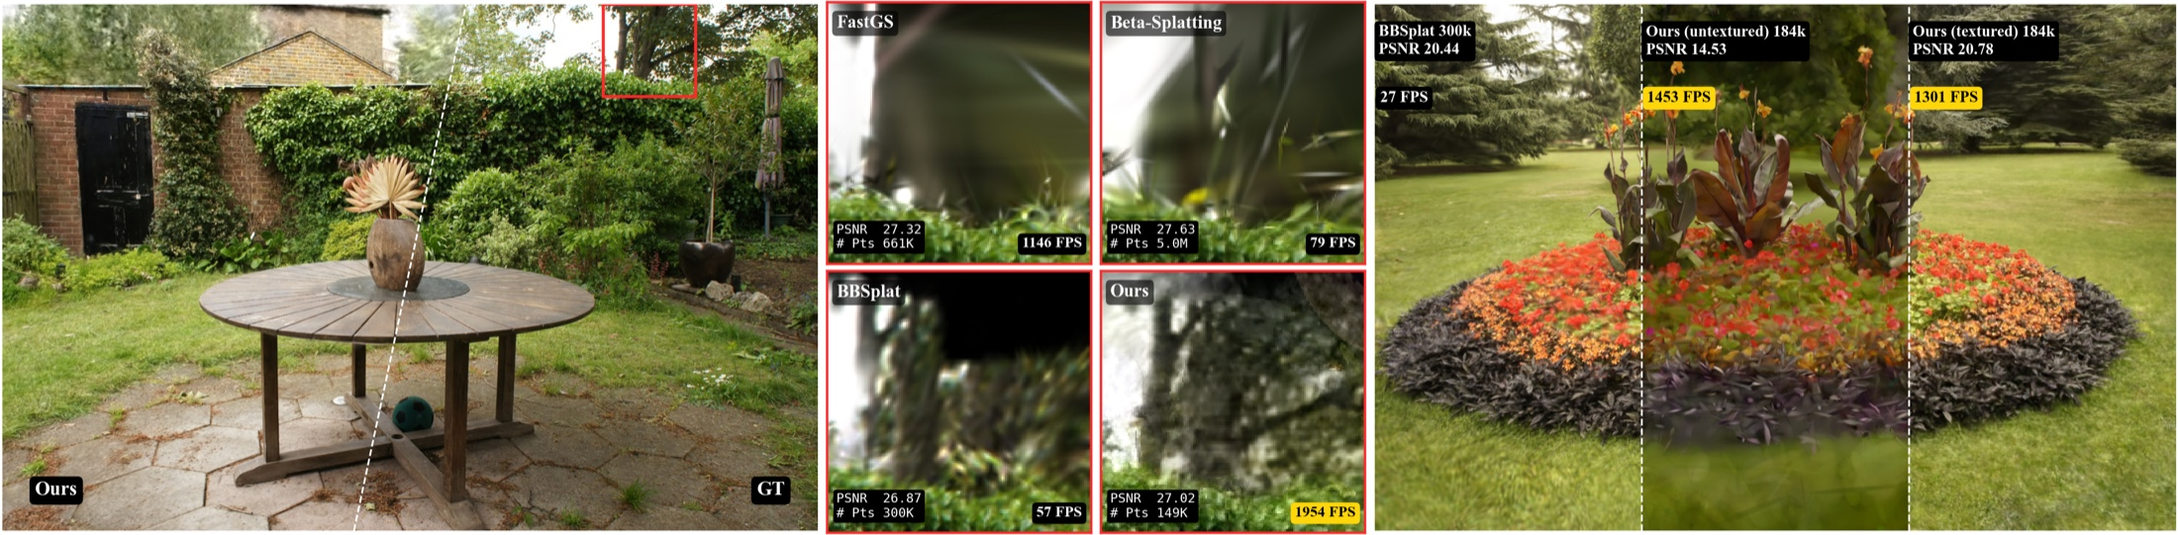
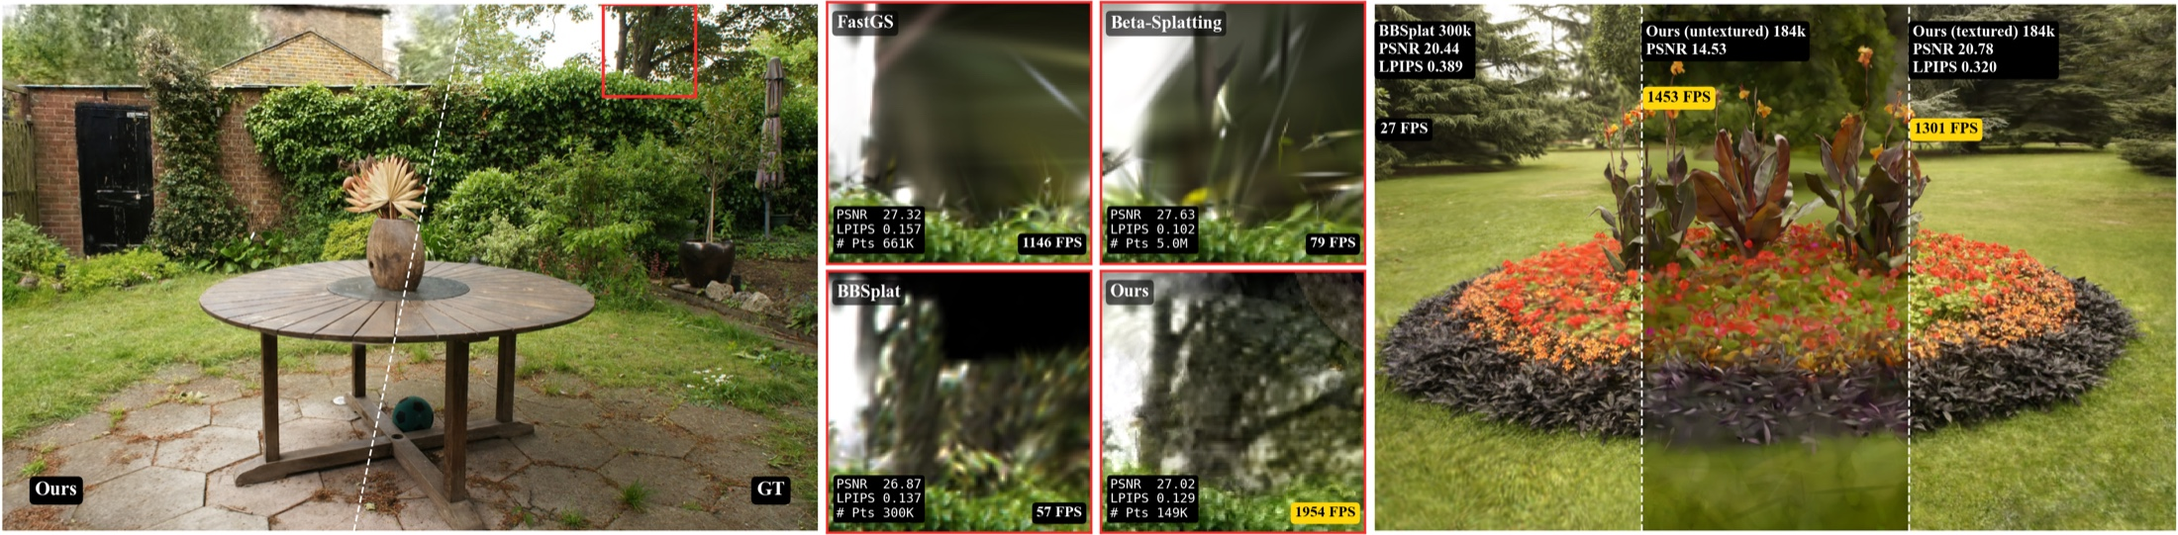
Results restructure: 3-way headline, ours-only per-scene, rank tints, LPIPS in teaser
- Headline table now Ours vs FastGS vs Nexels-400K (fastest untextured /
  highest-quality textured baselines) per benchmark, with our speed-up
  over each (1.27-1.78x FastGS, 16-36x Nexels)
- Per-scene tables show only our results with full metrics
  (PSNR/SSIM/LPIPS/prims/size/FPS)
- 13-method tables: red/orange/yellow tints for 1st/2nd/3rd per column
- Stat tiles: 1500+ FPS on every benchmark, up to 13x vs 3DGS
- Teaser regenerated with LPIPS alongside PSNR on all measured panels

diff --git a/index.html b/index.html
@@ -7,11 +7,11 @@
      EDIT THIS: page title shown in the browser tab / search results
      ============================================================ -->
 <title>Bake It Till You Make It: Ultrafast Spatial Texture-Surfel Splatting</title>
-<meta name="description" content="Ultrafast novel view synthesis by baking a view-independent texture residual: fastest method on all three benchmarks (7-9x faster than 3DGS), best LPIPS among methods above 1000 FPS on every benchmark, ~3x fewer primitives than FastGS.">
+<meta name="description" content="Ultrafast novel view synthesis by baking a view-independent texture residual: 1500+ FPS on every benchmark (up to 13x faster than 3DGS), best LPIPS among methods above 1000 FPS, over 10x fewer primitives than 3DGS.">
 
 <!-- Open Graph / social preview. EDIT the og:image URL and og:url. -->
 <meta property="og:title" content="Bake It Till You Make It">
-<meta property="og:description" content="Ultrafast texture-surfel splatting: fastest on all three benchmarks (7-9x faster than 3DGS), best LPIPS among methods above 1000 FPS, real-time on a phone.">
+<meta property="og:description" content="Ultrafast texture-surfel splatting: 1500+ FPS on every benchmark, up to 13x faster than 3DGS, real-time on a phone.">
 <meta property="og:type" content="website">
 <meta property="og:url" content="https://nilkel.github.io/bitymi/">
 <meta property="og:image" content="https://nilkel.github.io/bitymi/static/images/teaser.jpg">
@@ -131,6 +131,16 @@
   .fullcmp h4{font-size:1rem; margin:1.4rem 0 .3rem; color:var(--muted)}
   .restable tbody td.best{background:rgba(26,127,55,.10); border-radius:3px}
   @media (prefers-color-scheme:dark){ .restable tbody td.best{background:rgba(74,194,107,.16)} }
+  /* per-column rank tints in the full-comparison tables (paper convention):
+     red = best, orange = second, yellow = third */
+  .restable tbody td.r1{background:rgba(214,39,40,.24); border-radius:3px}
+  .restable tbody td.r2{background:rgba(255,127,14,.22); border-radius:3px}
+  .restable tbody td.r3{background:rgba(255,221,51,.38); border-radius:3px}
+  @media (prefers-color-scheme:dark){
+    .restable tbody td.r1{background:rgba(255,99,99,.30)}
+    .restable tbody td.r2{background:rgba(255,159,64,.28)}
+    .restable tbody td.r3{background:rgba(255,221,51,.20)}
+  }
   .sumtable{font-size:.95rem; max-width:640px; margin-left:auto; margin-right:auto}
   .sumtable td:first-child,.sumtable th:first-child{font-weight:600}
   .perscene{margin-top:.4rem}
@@ -200,8 +210,8 @@
 
   <!-- =================== STATS =================== EDIT numbers -->
   <div class="stats">
-    <div class="stat"><div class="num">13/13</div><div class="lbl">scenes with better LPIPS<br>than FastGS (3 benchmarks)</div></div>
-    <div class="stat"><div class="num">7&ndash;9&times;</div><div class="lbl">faster than 3DGS (up to 13&times; per scene)<br>at over 10&times; fewer primitives</div></div>
+    <div class="stat"><div class="num">1500+</div><div class="lbl">FPS on every benchmark<br>(RTX 5090, full test sets)</div></div>
+    <div class="stat"><div class="num">up to 13&times;</div><div class="lbl">faster than 3DGS<br>at over 10&times; fewer primitives</div></div>
     <div class="stat"><div class="num">No MLP</div><div class="lbl">pure texture lookups<br>&mdash; real-time on a phone</div></div>
   </div>
 
@@ -300,24 +310,28 @@
   <p>Rendering throughput and quality on three standard benchmarks, measured on a single
      RTX&nbsp;5090. All timings use per-frame <code>cuda.Event</code> pairs (50 warmup + 400 timed
      frames, sort and preprocess included), cycling through each scene's full held-out test set so
-     all methods are timed on identical images. We first highlight <strong>FastGS</strong>, the
-     strongest fast untextured baseline: it reaches its speed by optimising the per-primitive cost
-     of a conventional splat, whereas we change what a primitive stores &mdash; moving
-     high-frequency appearance into a baked texture, so far fewer and cheaper primitives are
-     needed. The full 13-method comparison follows below.</p>
+     all methods are timed on identical images. We first highlight the two strongest baselines:
+     <strong>FastGS</strong>, the fastest untextured method, which optimises the per-primitive
+     cost of a conventional splat, and <strong>Nexels (400K)</strong>, the highest-quality
+     textured baseline. We instead change what a primitive stores &mdash; moving high-frequency
+     appearance into a baked texture, so far fewer and cheaper primitives are needed. The full
+     13-method comparison follows below.</p>
 
   <div class="tablewrap">
   <table class="restable sumtable">
     <thead>
-      <tr><th>Benchmark</th><th>Method</th><th class="n">Primitives&nbsp;<span class="arw">&darr;</span></th><th class="n">FPS&nbsp;<span class="arw">&uarr;</span></th><th class="n">Speed-up&nbsp;<span class="arw">&uarr;</span></th><th class="n">PSNR&nbsp;<span class="arw">&uarr;</span></th><th class="n">SSIM&nbsp;<span class="arw">&uarr;</span></th><th class="n">LPIPS&nbsp;<span class="arw">&darr;</span></th></tr>
+      <tr><th>Benchmark</th><th>Method</th><th class="n">Primitives&nbsp;<span class="arw">&darr;</span></th><th class="n">FPS&nbsp;<span class="arw">&uarr;</span></th><th class="n">Our speed-up&nbsp;<span class="arw">&uarr;</span></th><th class="n">PSNR&nbsp;<span class="arw">&uarr;</span></th><th class="n">SSIM&nbsp;<span class="arw">&uarr;</span></th><th class="n">LPIPS&nbsp;<span class="arw">&darr;</span></th></tr>
     </thead>
     <tbody>
-      <tr class="dstop"><td rowspan="2">Mip-NeRF&nbsp;360<br><span class="dsn">9 scenes</span></td><td><strong>Ours</strong></td><td class="n best"><strong>123,051</strong></td><td class="n best"><strong>1538</strong></td><td class="n win"><strong>1.27&times;</strong></td><td class="n">27.23</td><td class="n">0.7892</td><td class="n best"><strong>0.2114</strong></td></tr>
-      <tr><td>FastGS</td><td class="n">394,189</td><td class="n">1209</td><td class="n">&mdash;</td><td class="n best"><strong>27.44</strong></td><td class="n best"><strong>0.7967</strong></td><td class="n">0.2589</td></tr>
-      <tr class="dstop"><td rowspan="2">Tanks &amp; Temples<br><span class="dsn">2 scenes</span></td><td><strong>Ours</strong></td><td class="n best"><strong>86,746</strong></td><td class="n best"><strong>2217</strong></td><td class="n win"><strong>1.78&times;</strong></td><td class="n best"><strong>24.10</strong></td><td class="n best"><strong>0.8507</strong></td><td class="n best"><strong>0.1447</strong></td></tr>
-      <tr><td>FastGS</td><td class="n">242,133</td><td class="n">1243</td><td class="n">&mdash;</td><td class="n">24.00</td><td class="n">0.8404</td><td class="n">0.2093</td></tr>
-      <tr class="dstop"><td rowspan="2">Deep Blending<br><span class="dsn">2 scenes</span></td><td><strong>Ours</strong></td><td class="n best"><strong>66,622</strong></td><td class="n best"><strong>2014</strong></td><td class="n win"><strong>1.39&times;</strong></td><td class="n">29.87</td><td class="n">0.8902</td><td class="n best"><strong>0.2176</strong></td></tr>
-      <tr><td>FastGS</td><td class="n">216,748</td><td class="n">1451</td><td class="n">&mdash;</td><td class="n best"><strong>30.02</strong></td><td class="n best"><strong>0.9045</strong></td><td class="n">0.2651</td></tr>
+      <tr class="dstop"><td rowspan="3">Mip-NeRF&nbsp;360<br><span class="dsn">9 scenes</span></td><td><strong>Ours</strong></td><td class="n best"><strong>123,051</strong></td><td class="n best"><strong>1538</strong></td><td class="n">&mdash;</td><td class="n">27.23</td><td class="n">0.7892</td><td class="n">0.2114</td></tr>
+      <tr><td>FastGS</td><td class="n">394,189</td><td class="n">1209</td><td class="n win">1.27&times;</td><td class="n best"><strong>27.44</strong></td><td class="n">0.7967</td><td class="n">0.2589</td></tr>
+      <tr><td>Nexels (400K)</td><td class="n">399,771</td><td class="n">78</td><td class="n win">19.7&times;</td><td class="n">27.21</td><td class="n best"><strong>0.8018</strong></td><td class="n best"><strong>0.2057</strong></td></tr>
+      <tr class="dstop"><td rowspan="3">Tanks &amp; Temples<br><span class="dsn">2 scenes</span></td><td><strong>Ours</strong></td><td class="n best"><strong>86,746</strong></td><td class="n best"><strong>2217</strong></td><td class="n">&mdash;</td><td class="n best"><strong>24.10</strong></td><td class="n best"><strong>0.8507</strong></td><td class="n best"><strong>0.1447</strong></td></tr>
+      <tr><td>FastGS</td><td class="n">242,133</td><td class="n">1243</td><td class="n win">1.78&times;</td><td class="n">24.00</td><td class="n">0.8404</td><td class="n">0.2093</td></tr>
+      <tr><td>Nexels (400K)</td><td class="n">399,767</td><td class="n">137</td><td class="n win">16.2&times;</td><td class="n">23.62</td><td class="n">0.8449</td><td class="n">0.1576</td></tr>
+      <tr class="dstop"><td rowspan="3">Deep Blending<br><span class="dsn">2 scenes</span></td><td><strong>Ours</strong></td><td class="n best"><strong>66,622</strong></td><td class="n best"><strong>2014</strong></td><td class="n">&mdash;</td><td class="n">29.87</td><td class="n">0.8902</td><td class="n">0.2176</td></tr>
+      <tr><td>FastGS</td><td class="n">216,748</td><td class="n">1451</td><td class="n win">1.39&times;</td><td class="n">30.02</td><td class="n">0.9045</td><td class="n">0.2651</td></tr>
+      <tr><td>Nexels (400K)</td><td class="n">399,188</td><td class="n">56</td><td class="n win">35.8&times;</td><td class="n best"><strong>30.41</strong></td><td class="n best"><strong>0.9138</strong></td><td class="n best"><strong>0.2046</strong></td></tr>
     </tbody>
   </table>
   </div>
@@ -327,7 +341,9 @@
      quality recomputed from the saved renders by one shared evaluation script &mdash; no numbers
      are copied from other papers. We are the <strong>fastest method on all three
      benchmarks</strong>; among methods above 1000&nbsp;FPS (Speedy-Splat, FastGS, ours) we have
-     the best LPIPS on every benchmark mean and on 12 of 13 scenes.</p>
+     the best LPIPS on every benchmark mean and on 12 of 13 scenes. Red, orange and yellow tints
+     mark the best, second and third value in each ranked column (Size is unranked; see the note
+     below).</p>
 
   <figure>
     <img src="static/images/pareto.png" alt="LPIPS versus FPS on Mip-NeRF 360, Tanks and Temples and Deep Blending: our method sits alone at the fast end of the Pareto frontier on all three benchmarks">
@@ -344,19 +360,19 @@
       <tr><th>Method</th><th class="n">PSNR <span class="arw">&uarr;</span></th><th class="n">SSIM <span class="arw">&uarr;</span></th><th class="n">LPIPS <span class="arw">&darr;</span></th><th class="n">Prims <span class="arw">&darr;</span></th><th class="n">Size (MB)</th><th class="n">FPS <span class="arw">&uarr;</span></th></tr>
     </thead>
     <tbody>
-      <tr><td>3DGS</td><td class="n">27.54</td><td class="n">0.8190</td><td class="n">0.2149</td><td class="n">2,732,349</td><td class="n">646</td><td class="n">211</td></tr>
+      <tr><td>3DGS</td><td class="n r2">27.54</td><td class="n r2">0.8190</td><td class="n">0.2149</td><td class="n">2,732,349</td><td class="n">646</td><td class="n">211</td></tr>
       <tr><td>2DGS</td><td class="n">26.83</td><td class="n">0.7989</td><td class="n">0.2520</td><td class="n">2,128,093</td><td class="n">495</td><td class="n">131</td></tr>
-      <tr><td>Beta-Splatting</td><td class="n best"><strong>28.07</strong></td><td class="n best"><strong>0.8311</strong></td><td class="n best"><strong>0.1904</strong></td><td class="n">3,111,111</td><td class="n">356</td><td class="n">110</td></tr>
+      <tr><td>Beta-Splatting</td><td class="n r1"><strong>28.07</strong></td><td class="n r1"><strong>0.8311</strong></td><td class="n r1"><strong>0.1904</strong></td><td class="n">3,111,111</td><td class="n">356</td><td class="n">110</td></tr>
       <tr><td>Beta-Splatting (200K)</td><td class="n">26.66</td><td class="n">0.7725</td><td class="n">0.2942</td><td class="n">205,331</td><td class="n">23</td><td class="n">469</td></tr>
       <tr><td>BBSplat</td><td class="n">26.80</td><td class="n">0.7874</td><td class="n">0.2355</td><td class="n">237,778</td><td class="n">176</td><td class="n">48</td></tr>
-      <tr><td>Nexels (40K)</td><td class="n">25.99</td><td class="n">0.7619</td><td class="n">0.2411</td><td class="n best"><strong>39,977</strong></td><td class="n">138</td><td class="n">119</td></tr>
-      <tr><td>Nexels (400K)</td><td class="n">27.21</td><td class="n">0.8018</td><td class="n">0.2057</td><td class="n">399,771</td><td class="n">230</td><td class="n">78</td></tr>
-      <tr><td>Speedy-Splat</td><td class="n">26.91</td><td class="n">0.7883</td><td class="n">0.2875</td><td class="n">315,961</td><td class="n">75</td><td class="n">1259</td></tr>
-      <tr><td>FastGS</td><td class="n">27.44</td><td class="n">0.7967</td><td class="n">0.2589</td><td class="n">394,189</td><td class="n">98</td><td class="n">1209</td></tr>
+      <tr><td>Nexels (40K)</td><td class="n">25.99</td><td class="n">0.7619</td><td class="n">0.2411</td><td class="n r1"><strong>39,977</strong></td><td class="n">138</td><td class="n">119</td></tr>
+      <tr><td>Nexels (400K)</td><td class="n">27.21</td><td class="n r3">0.8018</td><td class="n r2">0.2057</td><td class="n">399,771</td><td class="n">230</td><td class="n">78</td></tr>
+      <tr><td>Speedy-Splat</td><td class="n">26.91</td><td class="n">0.7883</td><td class="n">0.2875</td><td class="n">315,961</td><td class="n">75</td><td class="n r2">1259</td></tr>
+      <tr><td>FastGS</td><td class="n r3">27.44</td><td class="n">0.7967</td><td class="n">0.2589</td><td class="n">394,189</td><td class="n">98</td><td class="n r3">1209</td></tr>
       <tr><td>Content-Aware Texturing</td><td class="n">26.84</td><td class="n">0.7886</td><td class="n">0.2340</td><td class="n">155,756</td><td class="n">436</td><td class="n">137</td></tr>
-      <tr><td>Textured Gaussians</td><td class="n">25.86</td><td class="n">0.7336</td><td class="n">0.2857</td><td class="n">100,000</td><td class="n">3,837</td><td class="n">28</td></tr>
+      <tr><td>Textured Gaussians</td><td class="n">25.86</td><td class="n">0.7336</td><td class="n">0.2857</td><td class="n r2">100,000</td><td class="n">3,837</td><td class="n">28</td></tr>
       <tr><td>NeST</td><td class="n">26.39</td><td class="n">0.7734</td><td class="n">0.2257</td><td class="n">961,163</td><td class="n">224</td><td class="n">24</td></tr>
-      <tr class="ours"><td><strong>Ours</strong></td><td class="n">27.23</td><td class="n">0.7892</td><td class="n">0.2114</td><td class="n">123,051</td><td class="n">445</td><td class="n best"><strong>1538</strong></td></tr>
+      <tr class="ours"><td><strong>Ours</strong></td><td class="n">27.23</td><td class="n">0.7892</td><td class="n r3">0.2114</td><td class="n r3">123,051</td><td class="n">445</td><td class="n r1"><strong>1538</strong></td></tr>
     </tbody>
   </table>
   </div>
@@ -368,19 +384,19 @@
       <tr><th>Method</th><th class="n">PSNR <span class="arw">&uarr;</span></th><th class="n">SSIM <span class="arw">&uarr;</span></th><th class="n">LPIPS <span class="arw">&darr;</span></th><th class="n">Prims <span class="arw">&darr;</span></th><th class="n">Size (MB)</th><th class="n">FPS <span class="arw">&uarr;</span></th></tr>
     </thead>
     <tbody>
-      <tr><td>3DGS</td><td class="n">23.74</td><td class="n">0.8574</td><td class="n">0.1692</td><td class="n">1,574,592</td><td class="n">372</td><td class="n">259</td></tr>
+      <tr><td>3DGS</td><td class="n">23.74</td><td class="n r2">0.8574</td><td class="n">0.1692</td><td class="n">1,574,592</td><td class="n">372</td><td class="n">259</td></tr>
       <tr><td>2DGS</td><td class="n">23.15</td><td class="n">0.8367</td><td class="n">0.2118</td><td class="n">851,362</td><td class="n">198</td><td class="n">230</td></tr>
-      <tr><td>Beta-Splatting</td><td class="n best"><strong>24.71</strong></td><td class="n best"><strong>0.8735</strong></td><td class="n best"><strong>0.1434</strong></td><td class="n">1,750,000</td><td class="n">200</td><td class="n">190</td></tr>
+      <tr><td>Beta-Splatting</td><td class="n r1"><strong>24.71</strong></td><td class="n r1"><strong>0.8735</strong></td><td class="n r1"><strong>0.1434</strong></td><td class="n">1,750,000</td><td class="n">200</td><td class="n">190</td></tr>
       <tr><td>Beta-Splatting (200K)</td><td class="n">23.38</td><td class="n">0.8348</td><td class="n">0.2144</td><td class="n">200,000</td><td class="n">23</td><td class="n">524</td></tr>
-      <tr><td>BBSplat</td><td class="n">23.70</td><td class="n">0.8570</td><td class="n">0.1501</td><td class="n">300,000</td><td class="n">226</td><td class="n">80</td></tr>
-      <tr><td>Nexels (40K)</td><td class="n">22.25</td><td class="n">0.7942</td><td class="n">0.2113</td><td class="n best"><strong>39,979</strong></td><td class="n">138</td><td class="n">204</td></tr>
+      <tr><td>BBSplat</td><td class="n">23.70</td><td class="n r3">0.8570</td><td class="n r3">0.1501</td><td class="n">300,000</td><td class="n">226</td><td class="n">80</td></tr>
+      <tr><td>Nexels (40K)</td><td class="n">22.25</td><td class="n">0.7942</td><td class="n">0.2113</td><td class="n r1"><strong>39,979</strong></td><td class="n">138</td><td class="n">204</td></tr>
       <tr><td>Nexels (400K)</td><td class="n">23.62</td><td class="n">0.8449</td><td class="n">0.1576</td><td class="n">399,767</td><td class="n">230</td><td class="n">137</td></tr>
-      <tr><td>Speedy-Splat</td><td class="n">23.44</td><td class="n">0.8252</td><td class="n">0.2399</td><td class="n">181,817</td><td class="n">43</td><td class="n">1459</td></tr>
-      <tr><td>FastGS</td><td class="n">24.00</td><td class="n">0.8404</td><td class="n">0.2093</td><td class="n">242,133</td><td class="n">60</td><td class="n">1243</td></tr>
+      <tr><td>Speedy-Splat</td><td class="n">23.44</td><td class="n">0.8252</td><td class="n">0.2399</td><td class="n">181,817</td><td class="n">43</td><td class="n r2">1459</td></tr>
+      <tr><td>FastGS</td><td class="n r3">24.00</td><td class="n">0.8404</td><td class="n">0.2093</td><td class="n">242,133</td><td class="n">60</td><td class="n r3">1243</td></tr>
       <tr><td>Content-Aware Texturing</td><td class="n">23.37</td><td class="n">0.8387</td><td class="n">0.1973</td><td class="n">133,880</td><td class="n">127</td><td class="n">270</td></tr>
-      <tr><td>Textured Gaussians</td><td class="n">22.70</td><td class="n">0.8058</td><td class="n">0.2161</td><td class="n">100,000</td><td class="n">3,837</td><td class="n">30</td></tr>
+      <tr><td>Textured Gaussians</td><td class="n">22.70</td><td class="n">0.8058</td><td class="n">0.2161</td><td class="n r3">100,000</td><td class="n">3,837</td><td class="n">30</td></tr>
       <tr><td>NeST</td><td class="n">22.54</td><td class="n">0.8178</td><td class="n">0.1866</td><td class="n">378,448</td><td class="n">90</td><td class="n">48</td></tr>
-      <tr class="ours"><td><strong>Ours</strong></td><td class="n">24.10</td><td class="n">0.8507</td><td class="n">0.1447</td><td class="n">86,746</td><td class="n">325</td><td class="n best"><strong>2217</strong></td></tr>
+      <tr class="ours"><td><strong>Ours</strong></td><td class="n r2">24.10</td><td class="n">0.8507</td><td class="n r2">0.1447</td><td class="n r2">86,746</td><td class="n">325</td><td class="n r1"><strong>2217</strong></td></tr>
     </tbody>
   </table>
   </div>
@@ -392,19 +408,19 @@
       <tr><th>Method</th><th class="n">PSNR <span class="arw">&uarr;</span></th><th class="n">SSIM <span class="arw">&uarr;</span></th><th class="n">LPIPS <span class="arw">&darr;</span></th><th class="n">Prims <span class="arw">&darr;</span></th><th class="n">Size (MB)</th><th class="n">FPS <span class="arw">&uarr;</span></th></tr>
     </thead>
     <tbody>
-      <tr><td>3DGS</td><td class="n">29.71</td><td class="n">0.9106</td><td class="n">0.2375</td><td class="n">2,471,124</td><td class="n">584</td><td class="n">216</td></tr>
+      <tr><td>3DGS</td><td class="n">29.71</td><td class="n r3">0.9106</td><td class="n">0.2375</td><td class="n">2,471,124</td><td class="n">584</td><td class="n">216</td></tr>
       <tr><td>2DGS</td><td class="n">29.47</td><td class="n">0.9071</td><td class="n">0.2566</td><td class="n">1,508,720</td><td class="n">351</td><td class="n">157</td></tr>
       <tr><td>Beta-Splatting</td><td class="n">29.44</td><td class="n">0.9090</td><td class="n">0.2372</td><td class="n">3,000,000</td><td class="n">343</td><td class="n">136</td></tr>
       <tr><td>Beta-Splatting (200K)</td><td class="n">29.64</td><td class="n">0.9024</td><td class="n">0.2756</td><td class="n">200,000</td><td class="n">23</td><td class="n">520</td></tr>
       <tr><td>BBSplat</td><td class="n">29.34</td><td class="n">0.9050</td><td class="n">0.2570</td><td class="n">160,000</td><td class="n">111</td><td class="n">49</td></tr>
-      <tr><td>Nexels (40K)</td><td class="n">29.34</td><td class="n">0.8981</td><td class="n">0.2306</td><td class="n best"><strong>39,958</strong></td><td class="n">138</td><td class="n">106</td></tr>
-      <tr><td>Nexels (400K)</td><td class="n best"><strong>30.41</strong></td><td class="n">0.9138</td><td class="n best"><strong>0.2046</strong></td><td class="n">399,188</td><td class="n">230</td><td class="n">56</td></tr>
-      <tr><td>Speedy-Splat</td><td class="n">29.62</td><td class="n">0.9074</td><td class="n">0.2678</td><td class="n">250,990</td><td class="n">59</td><td class="n">1501</td></tr>
-      <tr><td>FastGS</td><td class="n">30.02</td><td class="n">0.9045</td><td class="n">0.2651</td><td class="n">216,748</td><td class="n">54</td><td class="n">1451</td></tr>
-      <tr><td>Content-Aware Texturing</td><td class="n">29.99</td><td class="n best"><strong>0.9141</strong></td><td class="n">0.2410</td><td class="n">185,094</td><td class="n">252</td><td class="n">147</td></tr>
-      <tr><td>Textured Gaussians</td><td class="n">29.04</td><td class="n">0.8913</td><td class="n">0.2652</td><td class="n">100,000</td><td class="n">3,837</td><td class="n">30</td></tr>
-      <tr><td>NeST</td><td class="n">28.86</td><td class="n">0.9021</td><td class="n">0.2273</td><td class="n">478,000</td><td class="n">113</td><td class="n">38</td></tr>
-      <tr class="ours"><td><strong>Ours</strong></td><td class="n">29.87</td><td class="n">0.8902</td><td class="n">0.2176</td><td class="n">66,622</td><td class="n">259</td><td class="n best"><strong>2014</strong></td></tr>
+      <tr><td>Nexels (40K)</td><td class="n">29.34</td><td class="n">0.8981</td><td class="n">0.2306</td><td class="n r1"><strong>39,958</strong></td><td class="n">138</td><td class="n">106</td></tr>
+      <tr><td>Nexels (400K)</td><td class="n r1"><strong>30.41</strong></td><td class="n r2">0.9138</td><td class="n r1"><strong>0.2046</strong></td><td class="n">399,188</td><td class="n">230</td><td class="n">56</td></tr>
+      <tr><td>Speedy-Splat</td><td class="n">29.62</td><td class="n">0.9074</td><td class="n">0.2678</td><td class="n">250,990</td><td class="n">59</td><td class="n r2">1501</td></tr>
+      <tr><td>FastGS</td><td class="n r2">30.02</td><td class="n">0.9045</td><td class="n">0.2651</td><td class="n">216,748</td><td class="n">54</td><td class="n r3">1451</td></tr>
+      <tr><td>Content-Aware Texturing</td><td class="n r3">29.99</td><td class="n r1"><strong>0.9141</strong></td><td class="n">0.2410</td><td class="n">185,094</td><td class="n">252</td><td class="n">147</td></tr>
+      <tr><td>Textured Gaussians</td><td class="n">29.04</td><td class="n">0.8913</td><td class="n">0.2652</td><td class="n r3">100,000</td><td class="n">3,837</td><td class="n">30</td></tr>
+      <tr><td>NeST</td><td class="n">28.86</td><td class="n">0.9021</td><td class="n r3">0.2273</td><td class="n">478,000</td><td class="n">113</td><td class="n">38</td></tr>
+      <tr class="ours"><td><strong>Ours</strong></td><td class="n">29.87</td><td class="n">0.8902</td><td class="n r2">0.2176</td><td class="n r2">66,622</td><td class="n">259</td><td class="n r1"><strong>2014</strong></td></tr>
     </tbody>
   </table>
   </div>
@@ -419,28 +435,26 @@
   </div>
 
   <p class="tcenter"><button class="toggle" type="button" data-target="ps-all"
-     aria-expanded="false">Show per-scene results</button></p>
+     aria-expanded="false">Show our per-scene results</button></p>
   <div id="ps-all" hidden>
   <h4>Mip-NeRF&nbsp;360</h4>
   <div class="tablewrap perscene">
   <table class="restable">
     <thead>
       <tr><th>Scene</th><th class="n">Resolution</th>
-          <th class="n">Prims <span class="arw">&darr;</span> (ours)</th><th class="n">Prims <span class="arw">&darr;</span> (FastGS)</th>
-          <th class="n">FPS <span class="arw">&uarr;</span> (ours)</th><th class="n">FPS <span class="arw">&uarr;</span> (FastGS)</th><th class="n">Speed-up <span class="arw">&uarr;</span></th>
-          <th class="n">PSNR <span class="arw">&uarr;</span> (ours)</th><th class="n">PSNR <span class="arw">&uarr;</span> (FastGS)</th>
-          <th class="n">LPIPS <span class="arw">&darr;</span> (ours)</th><th class="n">LPIPS <span class="arw">&darr;</span> (FastGS)</th></tr>
+          <th class="n">PSNR <span class="arw">&uarr;</span></th><th class="n">SSIM <span class="arw">&uarr;</span></th><th class="n">LPIPS <span class="arw">&darr;</span></th>
+          <th class="n">Prims</th><th class="n">Size (MB)</th><th class="n">FPS <span class="arw">&uarr;</span></th></tr>
     </thead>
     <tbody>
-      <tr><td>bicycle</td><td class="n">1237&times;822</td><td class="n">160,097</td><td class="n">539,624</td><td class="n best"><strong>1520</strong></td><td class="n">1212</td><td class="n win">1.25&times;</td><td class="n">24.41</td><td class="n best"><strong>24.61</strong></td><td class="n best"><strong>0.2383</strong></td><td class="n">0.2870</td></tr>
-      <tr><td>bonsai</td><td class="n">1559&times;1039</td><td class="n">92,281</td><td class="n">275,719</td><td class="n best"><strong>1330</strong></td><td class="n">1229</td><td class="n win">1.08&times;</td><td class="n best"><strong>32.53</strong></td><td class="n">32.05</td><td class="n best"><strong>0.1669</strong></td><td class="n">0.2138</td></tr>
-      <tr><td>counter</td><td class="n">1558&times;1038</td><td class="n">68,394</td><td class="n">208,171</td><td class="n best"><strong>1594</strong></td><td class="n">1199</td><td class="n win">1.33&times;</td><td class="n best"><strong>29.29</strong></td><td class="n">29.06</td><td class="n best"><strong>0.1819</strong></td><td class="n">0.2199</td></tr>
-      <tr><td>flowers</td><td class="n">1256&times;828</td><td class="n">184,511</td><td class="n">489,951</td><td class="n best"><strong>1301</strong></td><td class="n">1166</td><td class="n win">1.12&times;</td><td class="n">20.78</td><td class="n best"><strong>21.29</strong></td><td class="n best"><strong>0.3202</strong></td><td class="n">0.3880</td></tr>
-      <tr><td>garden</td><td class="n">1297&times;840</td><td class="n">148,658</td><td class="n">660,711</td><td class="n best"><strong>1954</strong></td><td class="n">1146</td><td class="n win">1.71&times;</td><td class="n">27.02</td><td class="n best"><strong>27.32</strong></td><td class="n best"><strong>0.1288</strong></td><td class="n">0.1574</td></tr>
-      <tr><td>kitchen</td><td class="n">1558&times;1039</td><td class="n">119,462</td><td class="n">379,671</td><td class="n best"><strong>1384</strong></td><td class="n">1055</td><td class="n win">1.31&times;</td><td class="n">31.39</td><td class="n best"><strong>31.64</strong></td><td class="n best"><strong>0.1224</strong></td><td class="n">0.1375</td></tr>
-      <tr><td>room</td><td class="n">1557&times;1038</td><td class="n">62,947</td><td class="n">207,167</td><td class="n best"><strong>2007</strong></td><td class="n">1341</td><td class="n win">1.50&times;</td><td class="n">31.48</td><td class="n best"><strong>31.70</strong></td><td class="n best"><strong>0.1866</strong></td><td class="n">0.2405</td></tr>
-      <tr><td>stump</td><td class="n">1245&times;825</td><td class="n">96,365</td><td class="n">392,348</td><td class="n best"><strong>1433</strong></td><td class="n">1263</td><td class="n win">1.14&times;</td><td class="n">25.66</td><td class="n best"><strong>26.47</strong></td><td class="n best"><strong>0.2632</strong></td><td class="n">0.2721</td></tr>
-      <tr><td>treehill</td><td class="n">1267&times;832</td><td class="n">174,744</td><td class="n">394,335</td><td class="n best"><strong>1320</strong></td><td class="n">1267</td><td class="n win">1.04&times;</td><td class="n">22.55</td><td class="n best"><strong>22.83</strong></td><td class="n best"><strong>0.2939</strong></td><td class="n">0.4141</td></tr>
+      <tr><td>bicycle</td><td class="n">1237&times;822</td><td class="n">24.41</td><td class="n">0.7132</td><td class="n">0.2383</td><td class="n">160,097</td><td class="n">620</td><td class="n">1520</td></tr>
+      <tr><td>bonsai</td><td class="n">1559&times;1039</td><td class="n">32.53</td><td class="n">0.9364</td><td class="n">0.1669</td><td class="n">92,281</td><td class="n">286</td><td class="n">1330</td></tr>
+      <tr><td>counter</td><td class="n">1558&times;1038</td><td class="n">29.29</td><td class="n">0.8994</td><td class="n">0.1819</td><td class="n">68,394</td><td class="n">208</td><td class="n">1594</td></tr>
+      <tr><td>flowers</td><td class="n">1256&times;828</td><td class="n">20.78</td><td class="n">0.5581</td><td class="n">0.3202</td><td class="n">184,511</td><td class="n">728</td><td class="n">1301</td></tr>
+      <tr><td>garden</td><td class="n">1297&times;840</td><td class="n">27.02</td><td class="n">0.8373</td><td class="n">0.1288</td><td class="n">148,658</td><td class="n">576</td><td class="n">1954</td></tr>
+      <tr><td>kitchen</td><td class="n">1558&times;1039</td><td class="n">31.39</td><td class="n">0.9181</td><td class="n">0.1224</td><td class="n">119,462</td><td class="n">253</td><td class="n">1384</td></tr>
+      <tr><td>room</td><td class="n">1557&times;1038</td><td class="n">31.48</td><td class="n">0.9164</td><td class="n">0.1866</td><td class="n">62,947</td><td class="n">228</td><td class="n">2007</td></tr>
+      <tr><td>stump</td><td class="n">1245&times;825</td><td class="n">25.66</td><td class="n">0.7225</td><td class="n">0.2632</td><td class="n">96,365</td><td class="n">378</td><td class="n">1433</td></tr>
+      <tr><td>treehill</td><td class="n">1267&times;832</td><td class="n">22.55</td><td class="n">0.6015</td><td class="n">0.2939</td><td class="n">174,744</td><td class="n">727</td><td class="n">1320</td></tr>
     </tbody>
   </table>
   </div>
@@ -449,14 +463,12 @@
   <table class="restable">
     <thead>
       <tr><th>Scene</th><th class="n">Resolution</th>
-          <th class="n">Prims <span class="arw">&darr;</span> (ours)</th><th class="n">Prims <span class="arw">&darr;</span> (FastGS)</th>
-          <th class="n">FPS <span class="arw">&uarr;</span> (ours)</th><th class="n">FPS <span class="arw">&uarr;</span> (FastGS)</th><th class="n">Speed-up <span class="arw">&uarr;</span></th>
-          <th class="n">PSNR <span class="arw">&uarr;</span> (ours)</th><th class="n">PSNR <span class="arw">&uarr;</span> (FastGS)</th>
-          <th class="n">LPIPS <span class="arw">&darr;</span> (ours)</th><th class="n">LPIPS <span class="arw">&darr;</span> (FastGS)</th></tr>
+          <th class="n">PSNR <span class="arw">&uarr;</span></th><th class="n">SSIM <span class="arw">&uarr;</span></th><th class="n">LPIPS <span class="arw">&darr;</span></th>
+          <th class="n">Prims</th><th class="n">Size (MB)</th><th class="n">FPS <span class="arw">&uarr;</span></th></tr>
     </thead>
     <tbody>
-      <tr><td>truck</td><td class="n">979&times;546</td><td class="n">85,413</td><td class="n">252,868</td><td class="n best"><strong>2399</strong></td><td class="n">1348</td><td class="n win">1.78&times;</td><td class="n">25.61</td><td class="n best"><strong>25.70</strong></td><td class="n best"><strong>0.1169</strong></td><td class="n">0.1766</td></tr>
-      <tr><td>train</td><td class="n">980&times;545</td><td class="n">88,080</td><td class="n">231,398</td><td class="n best"><strong>2035</strong></td><td class="n">1139</td><td class="n win">1.79&times;</td><td class="n best"><strong>22.59</strong></td><td class="n">22.31</td><td class="n best"><strong>0.1724</strong></td><td class="n">0.2419</td></tr>
+      <tr><td>truck</td><td class="n">979&times;546</td><td class="n">25.61</td><td class="n">0.8781</td><td class="n">0.1169</td><td class="n">85,413</td><td class="n">326</td><td class="n">2399</td></tr>
+      <tr><td>train</td><td class="n">980&times;545</td><td class="n">22.59</td><td class="n">0.8233</td><td class="n">0.1724</td><td class="n">88,080</td><td class="n">324</td><td class="n">2035</td></tr>
     </tbody>
   </table>
   </div>
@@ -465,14 +477,12 @@
   <table class="restable">
     <thead>
       <tr><th>Scene</th><th class="n">Resolution</th>
-          <th class="n">Prims <span class="arw">&darr;</span> (ours)</th><th class="n">Prims <span class="arw">&darr;</span> (FastGS)</th>
-          <th class="n">FPS <span class="arw">&uarr;</span> (ours)</th><th class="n">FPS <span class="arw">&uarr;</span> (FastGS)</th><th class="n">Speed-up <span class="arw">&uarr;</span></th>
-          <th class="n">PSNR <span class="arw">&uarr;</span> (ours)</th><th class="n">PSNR <span class="arw">&uarr;</span> (FastGS)</th>
-          <th class="n">LPIPS <span class="arw">&darr;</span> (ours)</th><th class="n">LPIPS <span class="arw">&darr;</span> (FastGS)</th></tr>
+          <th class="n">PSNR <span class="arw">&uarr;</span></th><th class="n">SSIM <span class="arw">&uarr;</span></th><th class="n">LPIPS <span class="arw">&darr;</span></th>
+          <th class="n">Prims</th><th class="n">Size (MB)</th><th class="n">FPS <span class="arw">&uarr;</span></th></tr>
     </thead>
     <tbody>
-      <tr><td>playroom</td><td class="n">1264&times;832</td><td class="n">67,156</td><td class="n">181,430</td><td class="n best"><strong>1853</strong></td><td class="n">1498</td><td class="n win">1.24&times;</td><td class="n">30.24</td><td class="n best"><strong>30.44</strong></td><td class="n best"><strong>0.2051</strong></td><td class="n">0.2605</td></tr>
-      <tr><td>drjohnson</td><td class="n">1332&times;876</td><td class="n">66,087</td><td class="n">252,067</td><td class="n best"><strong>2175</strong></td><td class="n">1403</td><td class="n win">1.55&times;</td><td class="n">29.50</td><td class="n best"><strong>29.59</strong></td><td class="n best"><strong>0.2302</strong></td><td class="n">0.2697</td></tr>
+      <tr><td>playroom</td><td class="n">1264&times;832</td><td class="n">30.24</td><td class="n">0.8907</td><td class="n">0.2051</td><td class="n">67,156</td><td class="n">270</td><td class="n">1853</td></tr>
+      <tr><td>drjohnson</td><td class="n">1332&times;876</td><td class="n">29.50</td><td class="n">0.8898</td><td class="n">0.2302</td><td class="n">66,087</td><td class="n">247</td><td class="n">2175</td></tr>
     </tbody>
   </table>
   </div>
@@ -485,7 +495,9 @@
     Mip-NeRF&nbsp;360 (&minus;0.21&nbsp;dB) and Deep Blending (&minus;0.15&nbsp;dB) and we lead on
     Tanks&nbsp;&amp;&nbsp;Temples (+0.10&nbsp;dB), while <strong>LPIPS favours us on all 13
     scenes</strong> &mdash; the explicit texture holds high-frequency detail that a per-primitive
-    colour model cannot.
+    colour model cannot. Nexels (400K), the strongest textured baseline, edges our LPIPS on
+    Mip-NeRF&nbsp;360 and Deep Blending but renders 16&ndash;36&times; slower and trails us on
+    Tanks&nbsp;&amp;&nbsp;Temples.
   </p>
   <p class="tnote">
     <em>Texture finetune.</em> The baked atlas is initialised from the trained neural residual and
@@ -535,7 +547,7 @@
       var open = t.hasAttribute('hidden');
       if (open) { t.removeAttribute('hidden'); } else { t.setAttribute('hidden', ''); }
       b.setAttribute('aria-expanded', String(open));
-      b.textContent = open ? 'Hide per-scene results' : 'Show per-scene results';
+      b.textContent = open ? 'Hide our per-scene results' : 'Show our per-scene results';
     });
   });
 </script>
